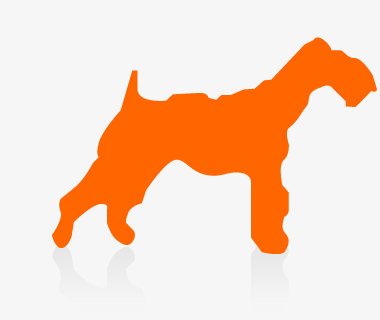
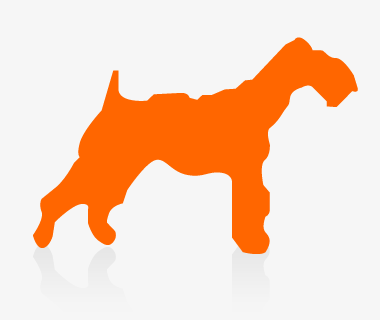
modified dog_homepage alignment

Changed region(s): [[0.0868, 0.0938, 1.0, 0.8125]]

diff --git a/css/bootstrap.css b/css/bootstrap.css
@@ -473,6 +473,9 @@ cite {
     margin-left: -20px;
     *zoom: 1;
   }
+  #index img.span5 {
+    margin-top: 100px;
+  }
   .row:before, .row:after {
     display: table;
     content: "";
@@ -562,7 +565,10 @@ cite {
     background: none;
   }
 
-
+  .share li {
+    clear: both;
+    margin: 0 0 20px 35px;
+  }
   .navbar .container {
     width: auto;
     padding: 0;
